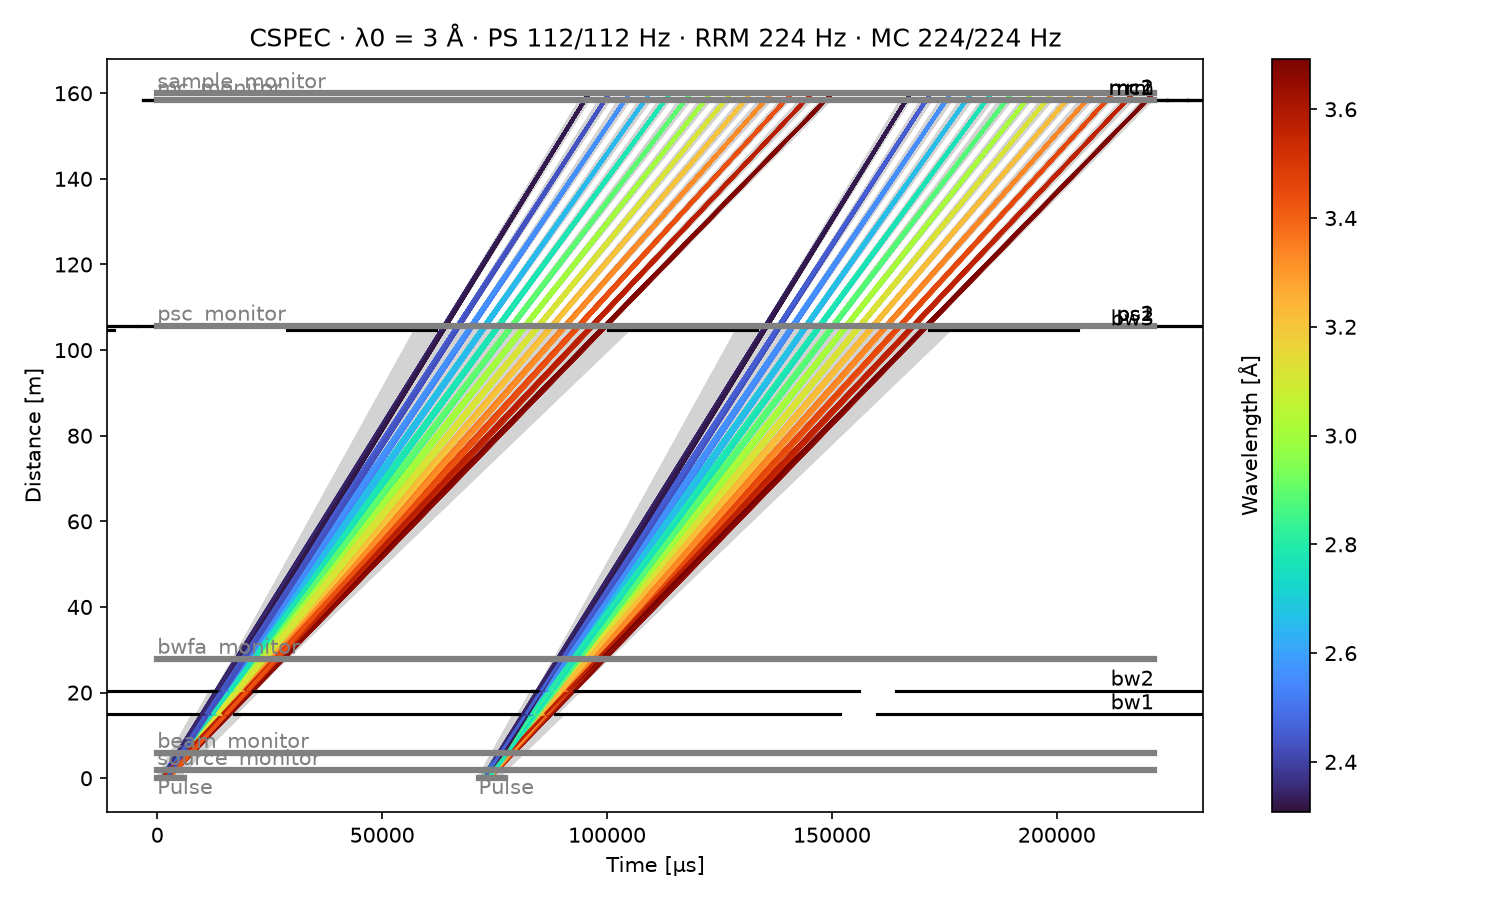
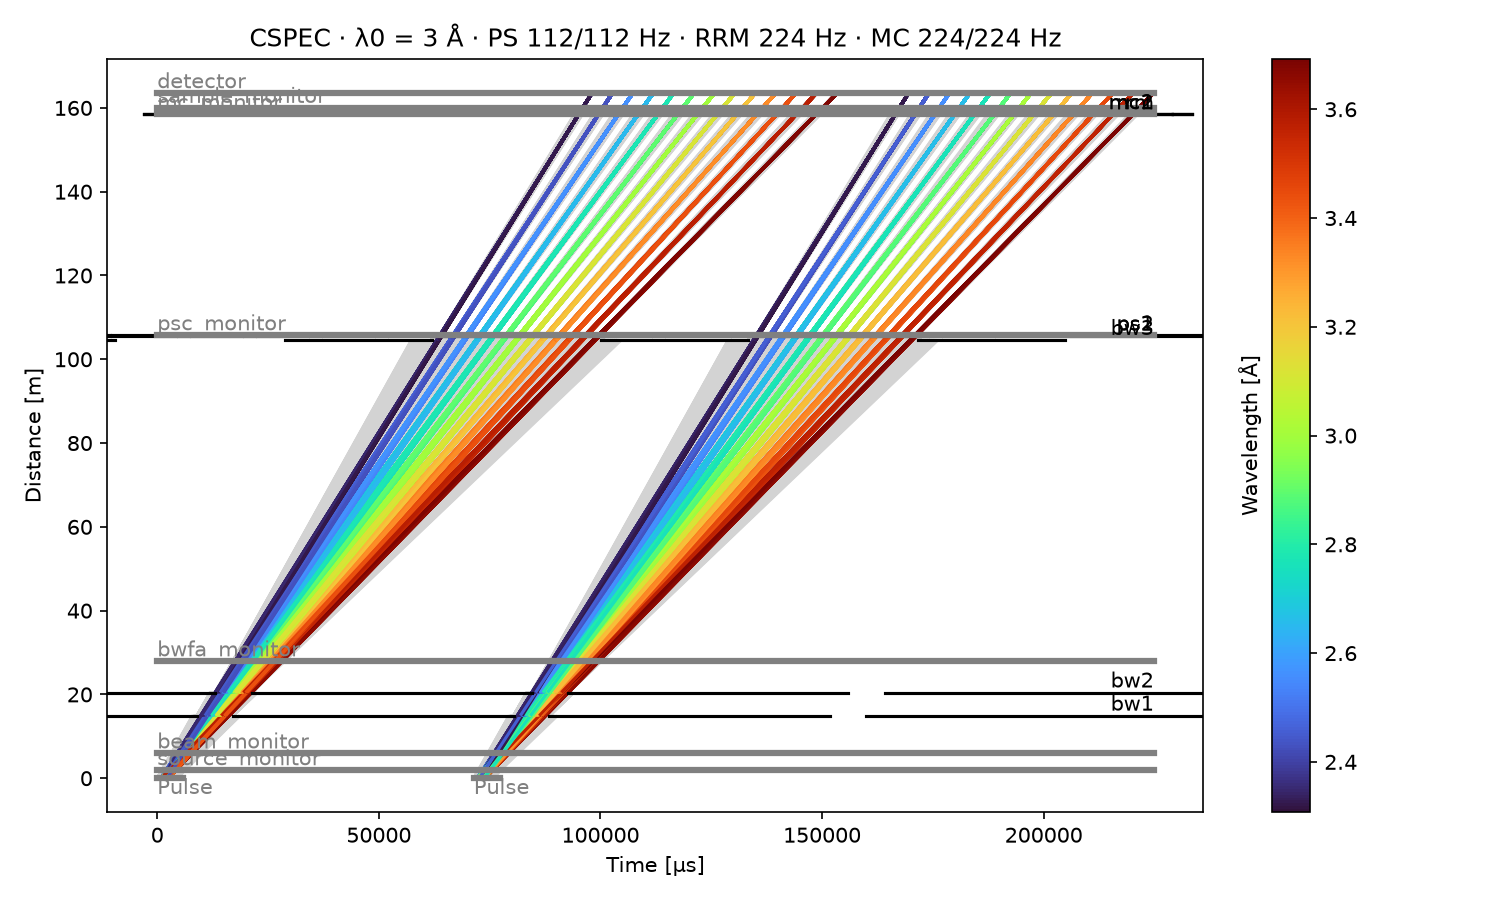
Give the tof model one detector beyond the sample

diff --git a/src/mcdgs/tof/builder.py b/src/mcdgs/tof/builder.py
@@ -8,9 +8,14 @@ takes only the components tof understands, by type:
   :class:`tof.Source`, which must be the only source;
 - each ``NXdisk_chopper`` becomes a :class:`tof.Chopper`, through scippneutron's
   :class:`DiskChopper` (:func:`disk_chopper`), as both follow NeXus;
-- each ``Monitor_nD`` becomes a :class:`tof.Detector`, which records the neutrons reaching it.
-  An instrument without one gives a model without detectors. A curved one, such as a banana,
-  is centered on the sample: its detector is its radius further on.
+- each ``Monitor_nD`` that histograms, a monitor, becomes a :class:`tof.Detector`, which records
+  the neutrons reaching it. A curved one is centered on its position: its detector is its radius
+  further on.
+- the ``Monitor_nD`` that list pixels, the detector, whether one banana or several panels,
+  become one :class:`tof.Detector`, ``DETECTOR``, where the first of them is in beam order. It is
+  as far beyond the sample as they are (:func:`sample_to_detector`), which they must agree on.
+
+An instrument without a ``Monitor_nD`` gives a model without detectors.
 
 Every other component, such as the optics, the markers or a sample, is left out.
 
@@ -41,6 +46,31 @@ from mcdgs.core.components import Component, ESS_butterfly, Monitor_nD, NXdisk_c
 
 # tof's pulse of the ESS moderator by beam port, ``sector`` and ``beamline``; else ``"ess"``
 TOF_SOURCES = {"W7": "ess-trex", "W3": "ess-cspec"}
+DETECTOR = "detector"  # the one tof detector of the Monitor_nD that list pixels
+DETECTOR_TOLERANCE = 1e-6  # m, how far apart the components of the detector may put it
+
+
+def sample_to_detector(component: Monitor_nD, params: Mapping[str, float]) -> float:
+    """Return how far a detector component is from the sample, the component it is relative to.
+
+    A curved one, such as a banana, is centered on the sample, or on the vertical through it:
+    its radius. A flat one, such as a panel facing the sample: the distance of its center.
+
+    Parameters
+    ----------
+    component:
+        The detector component, relative to the sample.
+    params:
+        Instrument parameter values, for an ``at`` given as expressions.
+
+    Returns
+    -------
+    :
+        The distance in m.
+    """
+    if component.curved_radius is not None:
+        return component.curved_radius
+    return float(np.linalg.norm([float(evaluate(v, params)) for v in component.at]))
 
 
 def disk_chopper(
@@ -158,16 +188,18 @@ def build_tof(
     Returns
     -------
     :
-        The tof model: the source, then the choppers and the detectors (one per ``Monitor_nD``)
-        in beam order, each named after its component.
+        The tof model: the source, then the choppers and the detectors in beam order: one per
+        monitor, named after it, and ``DETECTOR`` for every ``Monitor_nD`` that lists pixels.
 
     Raises
     ------
     ValueError
         If the instrument has no ``ESS_butterfly`` or ``Polygon_ESS_butterfly``, or more than
-        one; or if a chopper is parked.
+        one; if a chopper is parked; or if the components of the detector are not all as far
+        from the sample, or not relative to a component after the source.
     """
     source, after_source = beamline(instrument)
+    distances = {name: distance for name, _, distance in after_source}
     params = instrument.numeric_instr_params()
     # the pulse of the moderator's beam port, else tof's standard ESS pulse, where tof sampled
     # it. cold_frac, yheight, the focusing and the performance factors are not used
@@ -182,13 +214,29 @@ def build_tof(
             seed=seed,
         )  # type: ignore
     )
+    detector: float | None = None  # where the detector is, once its first component is found
     for name, component, distance in after_source:
         match component:
             case NXdisk_chopper():
                 # tof's conversion turns the signed frequency into a direction, and the phase
                 disk = disk_chopper(component, distance, params)
                 model.add(tof.Chopper.from_diskchopper(disk, name=name))
-            case Monitor_nD():  # a curved one is centered on the sample: its radius further on
+            case Monitor_nD() if component.lists_pixels:  # part of the detector
+                if component.relative not in distances:
+                    raise ValueError(
+                        f"{name}: the detector must be relative to the sample, after the source, "
+                        f"not to {component.relative!r}"
+                    )
+                reached = distances[component.relative] + sample_to_detector(component, params)
+                if detector is None:
+                    detector = reached
+                    model.add(tof.Detector(distance=sc.scalar(reached, unit="m"), name=DETECTOR))  # type: ignore
+                elif abs(reached - detector) > DETECTOR_TOLERANCE:
+                    raise ValueError(
+                        f"{name}: {reached:g} m from the source, the detector {detector:g} m: tof "
+                        "has one detector, all of it as far from the sample"
+                    )
+            case Monitor_nD():  # a curved one is centered on its position: its radius further on
                 reached = distance + (component.curved_radius or 0)
                 model.add(tof.Detector(distance=sc.scalar(reached, unit="m"), name=name))  # type: ignore
             case _:

diff --git a/tests/tof/test_tof_builder.py b/tests/tof/test_tof_builder.py
@@ -14,10 +14,12 @@ from mcdgs.core.components import (
     Polygon_ESS_butterfly,
     Progress_bar,
 )
+from mcdgs.instruments.cspec.model import CSPEC
 from mcdgs.instruments.trex.choppers import DISKS
 from mcdgs.instruments.trex.model import TRex
 from mcdgs.samples import aluminum
-from mcdgs.tof import build_tof
+from mcdgs.tof import beamline, build_tof
+from mcdgs.tof.builder import DETECTOR
 
 
 @dataclass(frozen=True)
@@ -101,14 +103,31 @@ def test_monitors_become_detectors_and_the_rest_is_left_out():
         assert model.detectors[name].distance.value == pytest.approx(np.hypot(x, z)), name
 
 
-def test_a_banana_detector_is_its_radius_beyond_the_sample():
+def test_the_banana_detector_is_one_detector_its_radius_beyond_the_sample():
     trex = TRex()
     model = build_tof(trex, neutrons=1000, seed=1)
-    sample = model.detectors["sample_monitor"].distance.value
-    banana = model.detectors["banana_detector"].distance.value
-    # within 1 mm: the banana's center is 0.3 m below the sample, off the straight line
-    assert banana - sample == pytest.approx(trex.banana_detector.curved_radius, abs=1e-3)
-    assert banana > model.detectors["beamstop_monitor"].distance.value
+    sample = {n: d for n, _, d in beamline(trex)[1]}["sample_pos"]
+    detector = model.detectors[DETECTOR].distance.value
+    assert "banana_detector" not in model.detectors
+    assert detector - sample == pytest.approx(trex.banana_detector.curved_radius, abs=1e-12)
+    assert detector > model.detectors["beamstop_monitor"].distance.value
+
+
+def test_the_detector_panels_of_cspec_are_one_detector_as_far_beyond_the_sample():
+    cspec = CSPEC()
+    model = build_tof(cspec, neutrons=1000, seed=1)
+    sample = {n: d for n, _, d in beamline(cspec)[1]}["sample_pos"]
+    assert [n for n in model.detectors if "detector" in n] == [DETECTOR]
+    assert model.detectors[DETECTOR].distance.value - sample == pytest.approx(3.5, abs=1e-12)
+    assert list(model.detectors)[-2:] == ["sample_monitor", DETECTOR]
+
+
+def test_detector_components_at_different_distances_from_the_sample_raise():
+    cspec = CSPEC()
+    panel = cspec.detector_panel_11
+    cspec.detector_panel_11 = replace(panel, at=[2 * v for v in panel.at])
+    with pytest.raises(ValueError, match="detector_panel_11"):
+        build_tof(cspec, neutrons=1000, seed=1)
 
 
 def test_the_model_runs():
@@ -184,7 +203,7 @@ def test_trex_choppers_are_placed_in_beam_order():
         "pre_sample_monitor",
         "beamstop_monitor",
         "sample_monitor",
-        "banana_detector",
+        DETECTOR,
     ]
 
 

diff --git a/tests/diagnostics/test_cspec_time_distance.py b/tests/diagnostics/test_cspec_time_distance.py
@@ -2,23 +2,22 @@ import matplotlib
 
 matplotlib.use("Agg")
 
-import pytest
-
 from mcdgs.diagnostics.cspec.time_distance import define_instrument, main
 from mcdgs.instruments import CSPEC
-from mcdgs.tof import beamline
+from mcdgs.tof import build_tof
+from mcdgs.tof.builder import DETECTOR
 
 
-def test_the_sample_monitor_is_at_the_sample_position_after_the_choppers():
-    cspec = define_instrument()
-    assert list(cspec.components)[-2:] == ["sample_pos", "sample_monitor"]
-    assert cspec.positions()["sample_monitor"] == pytest.approx(CSPEC().positions()["sample_pos"])
+def test_the_instrument_is_cspec_at_its_defaults():
+    assert define_instrument() == CSPEC()
 
 
-def test_tof_reaches_the_sample_monitor_after_the_last_chopper():
-    _, after_source = beamline(define_instrument())
-    distances = {name: distance for name, _, distance in after_source}
-    assert distances["sample_monitor"] == max(distances.values()) > distances["mc2"]
+def test_tof_reaches_the_detector_beyond_the_sample_monitor_after_the_last_chopper():
+    model = build_tof(define_instrument(), neutrons=1000, seed=1)
+    distances = {name: d.distance.value for name, d in model.detectors.items()}
+    last_chopper = model.choppers["mc2"].distance.value
+    assert distances[DETECTOR] == max(distances.values()) > distances["sample_monitor"]
+    assert distances["sample_monitor"] > last_chopper
 
 
 def test_main_draws_the_diagram_and_lists_its_parameters(tmp_path):

diff --git a/src/mcdgs/diagnostics/cspec/time_distance.py b/src/mcdgs/diagnostics/cspec/time_distance.py
@@ -1,8 +1,6 @@
 """The time-distance diagram of CSPEC, from its tof model.
 
-tof takes the sample monitor of CSPEC as a detector, so the rays reach the sample. The detector
-panels are left out: tof would put each at its straight distance from the source, some before the
-sample.
+tof takes the sample monitor of CSPEC as a detector, so the rays reach the sample.
 
 :func:`main` writes, at the default control parameters:
 
@@ -20,7 +18,6 @@ from pathlib import Path
 
 from mcdgs.diagnostics import cli
 from mcdgs.diagnostics.time_distance import parameters_table
-from mcdgs.instruments.cspec.detectors import detector_panels
 from mcdgs.instruments.cspec.model import CSPEC, Params
 from mcdgs.tof import time_distance_diagram
 
@@ -34,12 +31,9 @@ BLOCKED_RAYS = 5000
 
 # --8<-- [start:instrument]
 def define_instrument() -> CSPEC:
-    """Return the instrument of this diagnostic: :class:`.CSPEC` at its defaults, to the sample."""
+    """Return the instrument of this diagnostic: :class:`.CSPEC` at its default parameters."""
     params = Params()  # the default control parameters
-    cspec = CSPEC(params=params)
-    for name in detector_panels():  # after the sample monitor
-        delattr(cspec, name)
-    return cspec
+    return CSPEC(params=params)
 
 
 # --8<-- [end:instrument]

diff --git a/src/mcdgs/core/components/monitors.py b/src/mcdgs/core/components/monitors.py
@@ -198,3 +198,13 @@ class Monitor_nD(Component):
         if not curved:
             return None
         return self.radius or (self.xwidth / 2 if self.xwidth else self.zdepth / 2)
+
+    @property
+    def lists_pixels(self) -> bool:
+        """Whether it lists each neutron with its pixel, as a detector does.
+
+        True if ``options`` records ``pixel`` in a ``list``, which
+        :func:`mcdgs.mcstas.reader.read_pixels` needs; a monitor that histograms is False.
+        """
+        options = self.options or ""
+        return "pixel" in options and "list" in options

diff --git a/docs/instruments/cspec/time-distance.md b/docs/instruments/cspec/time-distance.md
@@ -1,7 +1,7 @@
 # Time-distance diagram
 
 The time-distance diagram follows neutrons of CSPEC from the moderator, through the choppers, to
-the sample. Time runs across and distance from the source up. Each neutron is a straight line
+the sample and the detector. Time runs across and distance from the source up. Each neutron is a straight line
 whose slope is its speed, so the slow, long wavelengths lean further to the right. It comes from
 a [tof](../../how-to/simulate-the-choppers-with-tof.md) run. tof follows each neutron through the
 choppers, but takes the guides, the bender and the slits as letting everything through.
@@ -9,11 +9,9 @@ choppers, but takes the guides, the bender and the slits as letting everything t
 ## The code
 
 tof takes each [monitor](details.md#monitors) of CSPEC as a detector, the last one
-`sample_monitor` at the sample position, so the rays run on from the last chopper, `mc2`, to the
-sample. The
-instrument is CSPEC at its default parameters, without the [detector
-panels](details.md#detectors), which tof would put at their straight distances from the source,
-some before the sample:
+`sample_monitor` at the sample position, and the twelve [detector panels](details.md#detectors)
+as one detector, `detector`, 3.5 m beyond the sample. So the rays run on from the last chopper,
+`mc2`, to the sample and the detector. The instrument is CSPEC at its default parameters:
 
 <!-- fmt:off -->
 ```python
@@ -48,12 +46,13 @@ from the control parameters, as [Chopper timing](details.md#chopper-timing) expl
 
 ![The time-distance diagram of CSPEC, two pulses at the default parameters](figures/time-distance/cspec_time_distance.png)
 
-- **Colored lines** are neutrons that reach `sample_monitor`, colored by wavelength.
+- **Colored lines** are neutrons that reach the detector, colored by wavelength.
 - **Gray lines** are neutrons that a chopper stops. Each one ends at the chopper that stops it.
 - **Black lines** are the choppers. Each gap in a line is a time when that chopper is open.
 - **Thick gray lines** are the pulse at the moderator and the monitors: `source_monitor` and
   `beam_monitor` near the bottom, `bwfa_monitor` at 28 m, `psc_monitor` at 106 m, and
-  `mc_monitor` and `sample_monitor` at 158.5 and 160 m, where their labels overlap.
+  `mc_monitor` and `sample_monitor` at 158.5 and 160 m, where their labels overlap, and
+  `detector` at 163.5 m.
 
 The second pulse starts 1/14 s, about 71 ms, after the first. Each pulse goes through the
 choppers in the same way:

diff --git a/docs/how-to/simulate-the-choppers-with-tof.md b/docs/how-to/simulate-the-choppers-with-tof.md
@@ -37,7 +37,8 @@ call; see
 | --------- | ------ |
 | `ESS_butterfly`, or `Polygon_ESS_butterfly` | The source: tof's pulse for the beam port that `sector` and `beamline` name, from `Lmin` to `Lmax`, at 14 Hz. The number of pulses is not the source's: `build_tof` takes it as `n_pulses`, 1 by default. W7 gets the T-Rex pulse and W3 the C-SPEC one; a beam port mcdgs does not know yet gets tof's standard ESS pulse. `cold_frac` and the focusing are not used. |
 | `NXdisk_chopper` | A chopper, with the same slit edges, frequency, direction and phase as in McStas. |
-| `Monitor_nD` | A detector, which records the neutrons reaching it. T-Rex has six: `source_monitor`, at the entrance of guide 1; `beam_monitor`, after guide 4; `pre_sample_monitor`, before the sample; `sample_monitor`, at the sample position; `beamstop_monitor` and `banana_detector`, after it. A curved one, such as the banana, is its radius beyond its position, where its neutrons arrive. With no monitor, the model has no detector. |
+| `Monitor_nD` that histograms, a monitor | A detector named after it, which records the neutrons reaching it. T-Rex has five: `source_monitor`, at the entrance of guide 1; `beam_monitor`, after guide 4; `pre_sample_monitor`, before the sample; `sample_monitor`, at the sample position; and `beamstop_monitor`, after it. A curved one is its radius beyond its position, where its neutrons arrive. |
+| `Monitor_nD` that lists pixels, the detector | One detector, `detector`, for all of them: the banana of T-Rex, or the twelve panels of CSPEC. It is as far beyond the sample, the component they are relative to, as they are: the radius of a curved one, the distance of the center of a flat one. They must all be as far from the sample, or `build_tof` raises. With no `Monitor_nD`, the model has no detector. |
 | Anything else, such as `Guide_gravity`, `Slit` or `Single_crystal` | Left out: tof takes the optics as letting everything through. |
 
 A component's distance is the straight line from the moderator to its position. For T-Rex this

diff --git a/docs/instruments/trex/time-distance.md b/docs/instruments/trex/time-distance.md
@@ -1,7 +1,7 @@
 # Time-distance diagram
 
 The time-distance diagram follows neutrons of T-Rex from the moderator, through the
-[choppers](choppers.md), to the sample. Time runs across and distance from the source up. Each
+[choppers](choppers.md), to the sample and the detector. Time runs across and distance from the source up. Each
 neutron is a straight line whose slope is its speed, so the slow, long wavelengths lean further
 to the right. It comes from a [tof](../../how-to/simulate-the-choppers-with-tof.md) run. tof
 follows each neutron through the choppers, but takes the guides, the bender and the slits as
@@ -37,11 +37,11 @@ choppers follow from the control parameters, as [Choppers](choppers.md) explains
 
 ![The time-distance diagram of T-Rex, two pulses at the default parameters](figures/time-distance/trex_time_distance.png)
 
-- **Colored lines** are neutrons that reach the banana detector, colored by wavelength.
+- **Colored lines** are neutrons that reach the detector, the banana, colored by wavelength.
 - **Gray lines** are neutrons that a chopper stops. Each one ends at the chopper that stops it.
 - **Black lines** are the choppers. Each gap in a line is a time when that chopper is open.
 - **Thick gray lines** are the pulse at the moderator, 0 to about 6 ms, and the detectors: `beam_monitor` near the bottom, and `pre_sample_monitor`,
-  `sample_monitor`, `beamstop_monitor` and `banana_detector` within 3.3 m of each other at
+  `sample_monitor`, `beamstop_monitor` and `detector` within 3.3 m of each other at
   the top, where their labels overlap.
 
 The second pulse starts 1/14 s, about 71 ms, after the first. Each pulse goes through the

diff --git a/docs/instruments/cspec/details.md b/docs/instruments/cspec/details.md
@@ -248,7 +248,7 @@ are those of the monitors of T-Rex (FIXME):
 | The others | 0.05 ms | 0.02 Å |
 
 tof takes each monitor as a detector, so the rays of the [time-distance
-diagram](time-distance.md) reach the sample.
+diagram](time-distance.md) reach the sample, and go on to the [detector](#detectors).
 
 ## Detectors
 
@@ -274,9 +274,8 @@ between them, through a gap of ±4.0°, so there is no beamstop. Each panel give
 unchanged, so a neutron goes on to the next one, and reaches the one in its way.
 
 The events of each panel are read per pixel with `read_pixels` (see
-[Detector pixels](../../how-to/read-the-output.md#detector-pixels)). The tof model takes the
-straight distance from the source to each panel, some of them before the sample, so the
-[time-distance diagram](time-distance.md) leaves the panels out.
+[Detector pixels](../../how-to/read-the-output.md#detector-pixels)). In the tof model, the twelve
+panels are one detector, `detector`, 3.5 m beyond the sample, where their neutrons arrive.
 
 ## Not in CSPEC_nl-specs_1.E.xlsx { #not-in-the-sheet }
 

diff --git a/docs/instruments/trex/details.md b/docs/instruments/trex/details.md
@@ -238,7 +238,7 @@ beam reaches the banana detector at about ±1° to ±1.5°.
 
 The events of `banana_detector` are read per pixel with `read_pixels` (see
 [Detector pixels](../../how-to/read-the-output.md#detector-pixels)). In the tof model, the
-banana detector is 3 m beyond the sample, where its neutrons arrive.
+banana detector is the detector, `detector`, 3 m beyond the sample, where its neutrons arrive.
 
 ## Chopper timing
 
